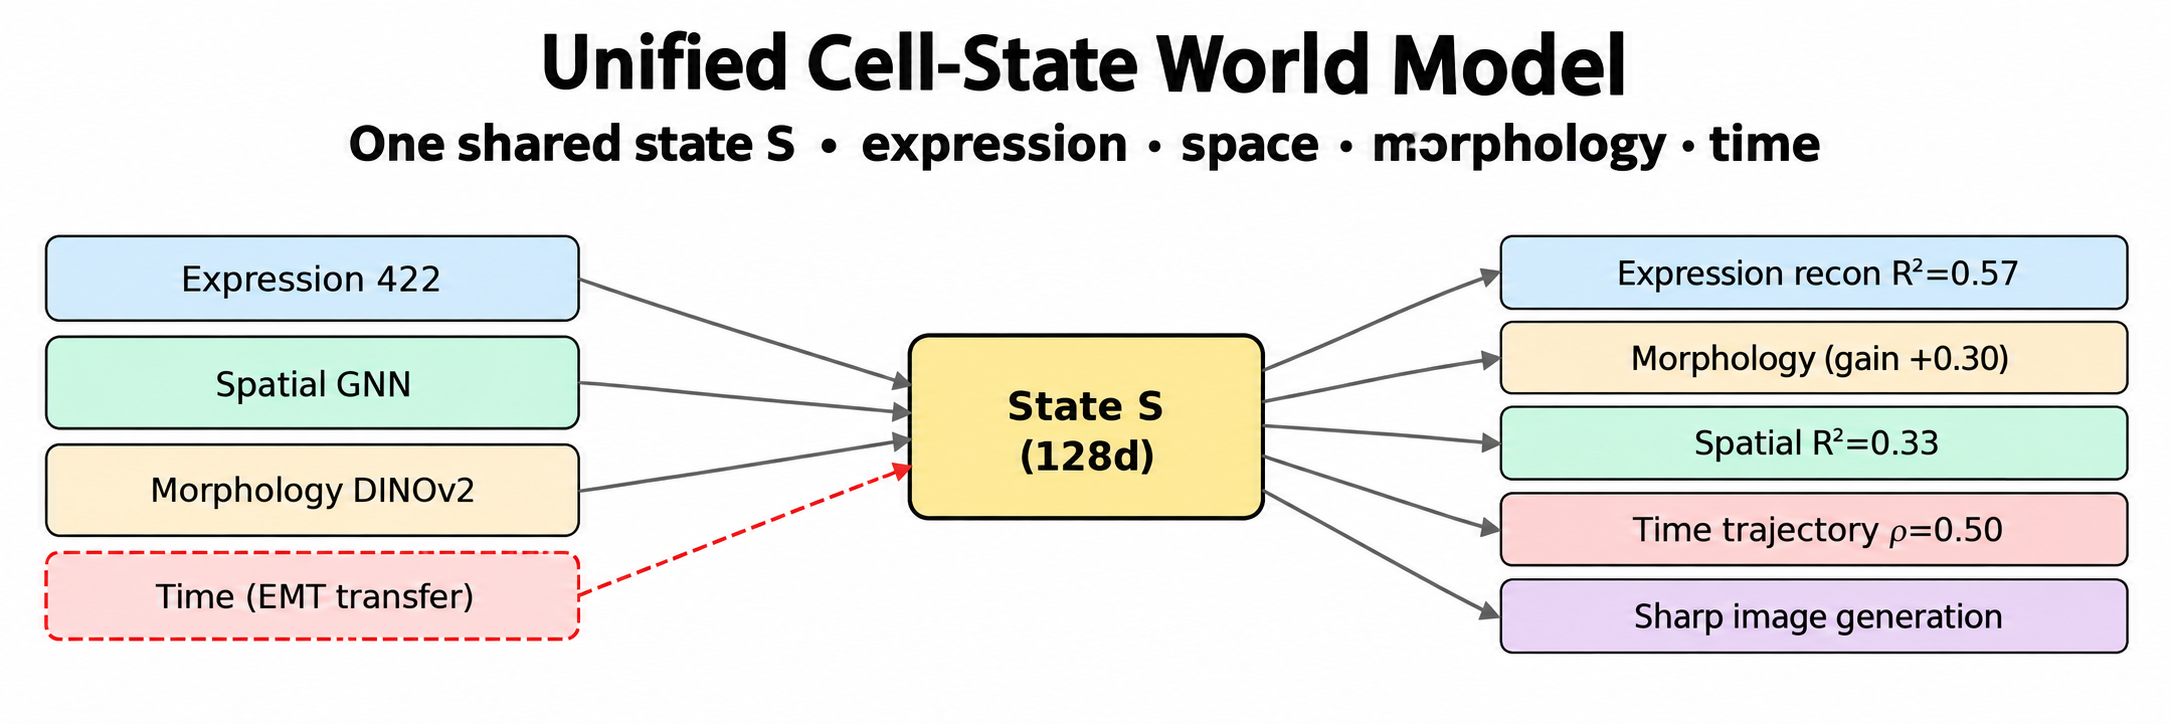
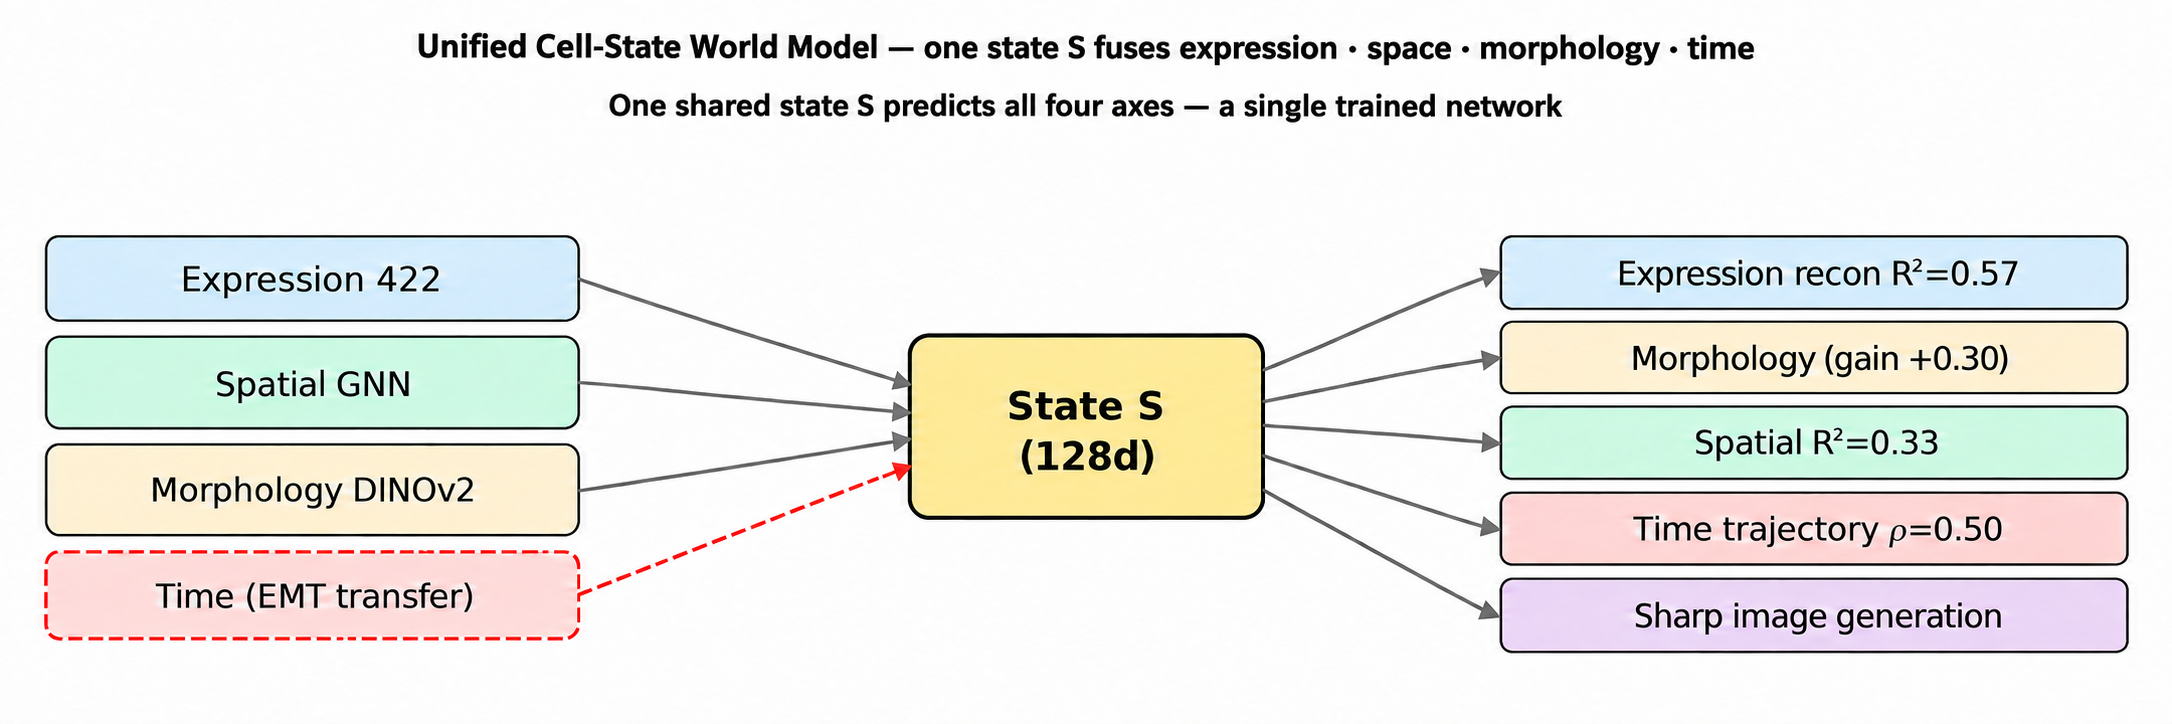
docs: restore overview explanation and reduce heading size

diff --git a/results/figures/readme_overview.md b/results/figures/readme_overview.md
@@ -10,7 +10,15 @@ swift scripts/compose_readme_overview.swift
 
 The compositor verifies every RGB pixel in the saved scientific panels against the original.
 
-## Image model prompt
+## Final correction prompt
+
+The final revision restores both original heading sentences and reduces the title to the original figure's typographic scale using the built-in image generation tool.
+
+```text
+Edit this scientific diagram header, making a precise typography correction. Keep the entire diagram (four input boxes, State S box, five output boxes, all arrows, all labels, numerical values, colors) unchanged. Keep wide 3:1 aspect ratio and white background. Replace ONLY the top title/subtitle area. The current title is MUCH too large. Set the main title to a small restrained bold sans-serif size, approximately 30 pixels on a 2172-pixel-wide image (less than HALF current title size), centered at y=40. Main title exact text on ONE line: "Unified Cell-State World Model — one state S fuses expression · space · morphology · time". Restore the missing explanatory sentence on its own centered line at y=135, approximately 26 pixels semibold: "One shared state S predicts all four axes — a single trained network". This sentence MUST appear in full with no omission or paraphrase. Do NOT use current subtitle "One shared state S • expression · space · morphology · time". The two text lines must be modest scientific figure headings, not a poster headline. Keep clear white space between explanatory sentence and diagram. Diagram starts around y=235, below both text lines. No text overlaps, clipping or large title. Preserve every diagram label exactly including R², ρ, +0.30 and all metrics.
+```
+
+## Initial image model prompt (superseded typography)
 
 ```text
 Use case: precise-object-edit / scientific infographic.
